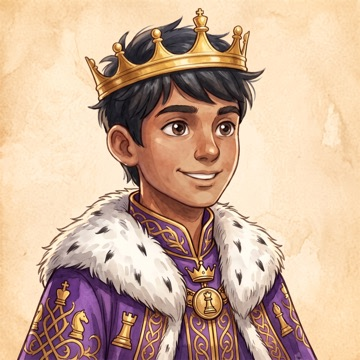
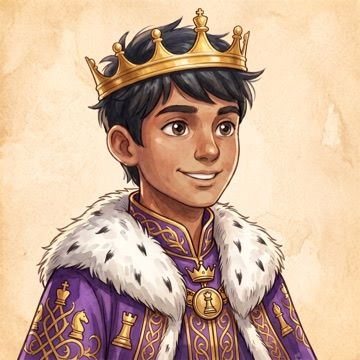
Faster (Lu, 13.11.: 'die Map sofort da'): pictures recompressed, small world map shows at once, service worker keeps pictures, fonts and map tiles, rarely used pages and the game file load on demand, real map preloads. Measured throttled: painted map 9.0 → 3.7 s on first open, start 1.7 → 1.1 s agai

diff --git a/src/App.tsx b/src/App.tsx
@@ -15,39 +15,49 @@ import { isDue } from './lib/srs'
 import { isUnlocked, stop as stopVoice, unlockAudio } from './lib/voice'
 import { InstallBanner } from './components/InstallBanner'
 import { Mascot } from './components/Mascot'
-import { Attacks } from './screens/Attacks'
 import { Drill } from './screens/Drill'
 import { Home } from './screens/Home'
 import { backFromLine, rememberLine, rememberOrigin, stationOrigin } from './lib/returnTo'
-import { ChessCheck } from './screens/Check'
-import { Portal } from './screens/Portal'
-import { Afterwards } from './screens/Afterwards'
-import { ArmouryScreen } from './screens/Armoury'
-import { QuestBook } from './screens/QuestBook'
-import { Mirror } from './screens/Mirror'
-import { Atlas } from './screens/Atlas'
-import { ThreatCheck } from './screens/ThreatCheck'
 const RealMap = lazy(() => import('./screens/RealMap'))
-import { SquareRush } from './screens/SquareRush'
+const ThreatCheck = lazy(() => import('./screens/ThreatCheck').then((m) => ({ default: m.ThreatCheck })))
+// the game (cities, bosses, intro) is one big file: it loads when you go into the journey, not for the start page
+const Encounter = lazy(() => import('./screens/King').then((m) => ({ default: m.Encounter })))
+const Habits = lazy(() => import('./screens/King').then((m) => ({ default: m.Habits })))
+const KingFastTravel = lazy(() => import('./screens/King').then((m) => ({ default: m.KingFastTravel })))
+const KingHome = lazy(() => import('./screens/King').then((m) => ({ default: m.KingHome })))
+const KingStation = lazy(() => import('./screens/King').then((m) => ({ default: m.KingStation })))
+const KingWorld = lazy(() => import('./screens/King').then((m) => ({ default: m.KingWorld })))
+const WarmUp = lazy(() => import('./screens/King').then((m) => ({ default: m.WarmUp })))
+const WarTent = lazy(() => import('./screens/King').then((m) => ({ default: m.WarTent })))
+// Speed (Lu, 13.11.): pages that are not on the way from the start load when they are opened (the phone keeps them after the first time)
+const ChessCheck = lazy(() => import('./screens/Check').then((m) => ({ default: m.ChessCheck })))
+const Portal = lazy(() => import('./screens/Portal').then((m) => ({ default: m.Portal })))
+const Afterwards = lazy(() => import('./screens/Afterwards').then((m) => ({ default: m.Afterwards })))
+const ArmouryScreen = lazy(() => import('./screens/Armoury').then((m) => ({ default: m.ArmouryScreen })))
+const QuestBook = lazy(() => import('./screens/QuestBook').then((m) => ({ default: m.QuestBook })))
+const Mirror = lazy(() => import('./screens/Mirror').then((m) => ({ default: m.Mirror })))
+const Atlas = lazy(() => import('./screens/Atlas').then((m) => ({ default: m.Atlas })))
+const SquareRush = lazy(() => import('./screens/SquareRush').then((m) => ({ default: m.SquareRush })))
+const KingStamps = lazy(() => import('./screens/KingStamps').then((m) => ({ default: m.KingStamps })))
+const OpeningMap = lazy(() => import('./screens/OpeningMap').then((m) => ({ default: m.OpeningMap })))
+const Import = lazy(() => import('./screens/Import').then((m) => ({ default: m.Import })))
+const Settings = lazy(() => import('./screens/Settings').then((m) => ({ default: m.Settings })))
+const Trophies = lazy(() => import('./screens/Trophies').then((m) => ({ default: m.Trophies })))
+const Accuracy = lazy(() => import('./screens/Accuracy').then((m) => ({ default: m.Accuracy })))
+const Watch = lazy(() => import('./screens/Watch').then((m) => ({ default: m.Watch })))
+const Weaknesses = lazy(() => import('./screens/Weaknesses').then((m) => ({ default: m.Weaknesses })))
+const Attacks = lazy(() => import('./screens/Attacks').then((m) => ({ default: m.Attacks })))
 import { Connect, MistakeOne, Training, YourGames } from './screens/Training'
 import { backToTraining, forgetBackToTraining } from './lib/trainingToday'
 import { report } from './lib/trainingPath'
 import { HomeHub } from './screens/HomeHub'
-import { KingStamps } from './screens/KingStamps'
-import { Encounter, Habits, KingFastTravel, KingHome, KingStation, KingWorld, WarmUp, WarTent } from './screens/King'
-import { OpeningMap } from './screens/OpeningMap'
-import { Import } from './screens/Import'
+import { loadKing } from './lib/king'
 import { Learn } from './screens/Learn'
 import { Play } from './screens/Play'
 import { PuzzleView } from './screens/PuzzleScreen'
-import { Settings } from './screens/Settings'
 import { MuteButton } from './components/MuteButton'
 import { ThreatView } from './screens/Threat'
-import { Trophies } from './screens/Trophies'
-import { Accuracy } from './screens/Accuracy'
-import { Watch } from './screens/Watch'
 import { Welcome } from './screens/Welcome'
-import { Weaknesses } from './screens/Weaknesses'
 import type { Category } from './lib/weakness'
 import { CATEGORY } from './lib/weakness'
 import './App.css'
@@ -93,6 +103,11 @@ function App() {
     return () => events.forEach((e) => window.removeEventListener(e, tryUnlock))
   }, [])
   useEffect(() => void startLive(), [])
+  // the real world map is ready before you tap it: its code loads quietly a moment after the start
+  useEffect(() => {
+    const t = window.setTimeout(() => void import('./screens/RealMap').catch(() => {}), 2500)
+    return () => window.clearTimeout(t)
+  }, [])
   const line = id ? rep.lines.find((l) => l.id === id) : undefined
 
   let body: React.ReactNode
@@ -168,9 +183,13 @@ function App() {
   else if (page === 'portal') body = <Portal rep={rep} />
   else if (page === 'encounter') body = <Encounter key={id ?? ''} to={id} rep={rep} />
   else body = redirect ? null : (
-      <KingHome>
+      loadKing().intro ? (
         <HomeHub rep={rep} progress={progress} puzzles={puzzles} player={player} />
-      </KingHome>
+      ) : (
+        <KingHome>
+          <HomeHub rep={rep} progress={progress} puzzles={puzzles} player={player} />
+        </KingHome>
+      )
     )
 
   return (
@@ -183,7 +202,7 @@ function App() {
         </div>
       </header>
       {page === 'path' && named && <InstallBanner />}
-      {body}
+      <Suspense fallback={<Loading />}>{body}</Suspense>
     </main>
   )
 }

diff --git a/vite.config.ts b/vite.config.ts
@@ -19,10 +19,31 @@ export default defineConfig({
       registerType: 'autoUpdate',
       // Lu's voice clips (public/voice) are cached on first play, not downloaded all at install
       workbox: {
+        // Speed (Lu, 13.11.: "die Map sofort da"): the painted pictures are stored on the phone at install,
+        // so the start page, cities and map open without waiting for the network
+        globPatterns: ['**/*.{js,css,html,svg,png,webmanifest}', 'king/**/*.jpg'],
+        maximumFileSizeToCacheInBytes: 3 * 1024 * 1024,
         globIgnores: ['voice/**', 'preview/**'],
         // The draft under /preview/ is its own app: never answer its pages with this app's index.html
         navigateFallbackDenylist: [/\/preview\//],
         runtimeCaching: [
+          // the fonts (Nunito, Cinzel …): from the phone instead of Google on every start
+          {
+            urlPattern: ({ url }) => url.hostname === 'fonts.googleapis.com',
+            handler: 'StaleWhileRevalidate',
+            options: { cacheName: 'font-css', expiration: { maxEntries: 10 } },
+          },
+          {
+            urlPattern: ({ url }) => url.hostname === 'fonts.gstatic.com',
+            handler: 'CacheFirst',
+            options: { cacheName: 'font-files', expiration: { maxEntries: 40, maxAgeSeconds: 365 * 24 * 3600 }, cacheableResponse: { statuses: [0, 200] } },
+          },
+          // the real world map (Journey): style, fonts and tiles from OpenFreeMap stay on the phone after the first look
+          {
+            urlPattern: ({ url }) => url.hostname === 'tiles.openfreemap.org',
+            handler: 'CacheFirst',
+            options: { cacheName: 'map-tiles', expiration: { maxEntries: 4000, maxAgeSeconds: 30 * 24 * 3600 }, cacheableResponse: { statuses: [0, 200] } },
+          },
           {
             urlPattern: ({ url }) => url.pathname.includes('/voice/'),
             handler: 'CacheFirst',

diff --git a/src/screens/HomeHub.tsx b/src/screens/HomeHub.tsx
@@ -133,7 +133,8 @@ export function HomeHub({ rep, progress, puzzles, player }: { rep: ReturnType<ty
         onKeyDown={(e) => e.key === 'Enter' && go('journey')}
         aria-label={next ? `Open the world map – next: ${next.name}` : 'Open the world map'}
       >
-        <span className="hub-map" style={{ backgroundImage: `url(${IMG}worldmap.jpg)`, backgroundPosition: `${mx}% ${my}%` }} />
+        {/* a small copy (40 KB) shows at once, the sharp map covers it when it has loaded (Lu: "die Map sofort da") */}
+        <span className="hub-map" style={{ backgroundImage: `url(${IMG}worldmap.jpg), url(${IMG}worldmap-small.jpg)`, backgroundPosition: `${mx}% ${my}%` }} />
         <span className="hub-say">{say}</span>
         <span className="hub-peek" aria-hidden="true"><Mascot mood="cheer" /></span>
         <span className="hub-in">

diff --git a/index.html b/index.html
@@ -16,6 +16,8 @@
     <link rel="preconnect" href="https://fonts.googleapis.com" />
     <link rel="preconnect" href="https://fonts.gstatic.com" crossorigin />
     <link rel="stylesheet" href="https://fonts.googleapis.com/css2?family=Nunito:wght@600;700;800;900&family=Cinzel:wght@700;900&family=EB+Garamond:wght@500&family=Inter:wght@400;600;700;800&display=swap" />
+    <!-- the start page's map: a small copy first, so it is there at once -->
+    <link rel="preload" as="image" href="%BASE_URL%king/worldmap-small.jpg" />
     <title>Hoppy Chess</title>
   </head>
   <body>

diff --git a/BAUPLAN.md b/BAUPLAN.md
@@ -306,6 +306,14 @@ alle 5 Züge (Springer, Läufer, Turm, Dame, König, Bauer). Schalter: Buchstabe
 Töne im Browser erzeugt (keine Dateien). Vibration nur Android (iPhone-Safari kann es nicht). Gibt es schon klein in
 Bagdad („Blindfold: find the square“) – das hier wäre ein eigenes Spiel, z. B. im Training oder als Tagesspiel.
 
+### [x] 32. Schneller laden (Lu, 13.11.: „die ganze App schneller, am liebsten die Map sofort da“) – gebaut + live 13.11.
+Gemessen (Playwright, Handy 4× gedrosselt, 1,6 Mbit/s, 150 ms): Startseite erstes Mal 3,9 → 3,6 s, gemalte Karte sichtbar 9,0 → 3,7 s,
+echte Karte 1,4 → 0,9 s; ab dem 2. Mal Startseite 1,7 → 1,1 s, echte Karte 0,56 → 0,41 s. Gemacht: 27 Bilder neu komprimiert
+(q80 progressiv, gleiche Größe/Namen, 8,5 → 7,1 MB; worldmap 891 → 520 KB), `worldmap-small.jpg` (40 KB) liegt unter der scharfen Karte
+und wird vorgeladen; Service Worker speichert alle `king/*.jpg`, Google-Schriften und OpenFreeMap-Kacheln; selten genutzte Seiten
+und die Spiel-Datei `King.tsx` laden bei Bedarf (Hauptcode 329 → 245 KB gepackt); echte Karte lädt 2,5 s nach dem Start vor.
+Neue Bilder: vor dem Einbau mit PIL q80 progressiv speichern. Neue Seiten in `App.tsx` gern auch per `lazy(...)`.
+
 ### [x] 31. Training neu: Tagespfad mit Sternen + chess.com als rote Level – gebaut 13.11. (Vorschau `#/tent`, Lu: „übernimm das erstmal so“)
 Entwurf: https://claude.ai/artifact/HWhR59MBvsBsqwobpMAcrA (Lus Vorlage-Screenshot einer Lern-App + Duolingo-Pfad + Candy-Level + Aquarell).
 **Gebaut:** `src/screens/Training.tsx` (+ `src/training.css`, alles unter `.trn`), Logik `src/lib/trainingPath.ts` (Plan, Sterne, Safe moves,
